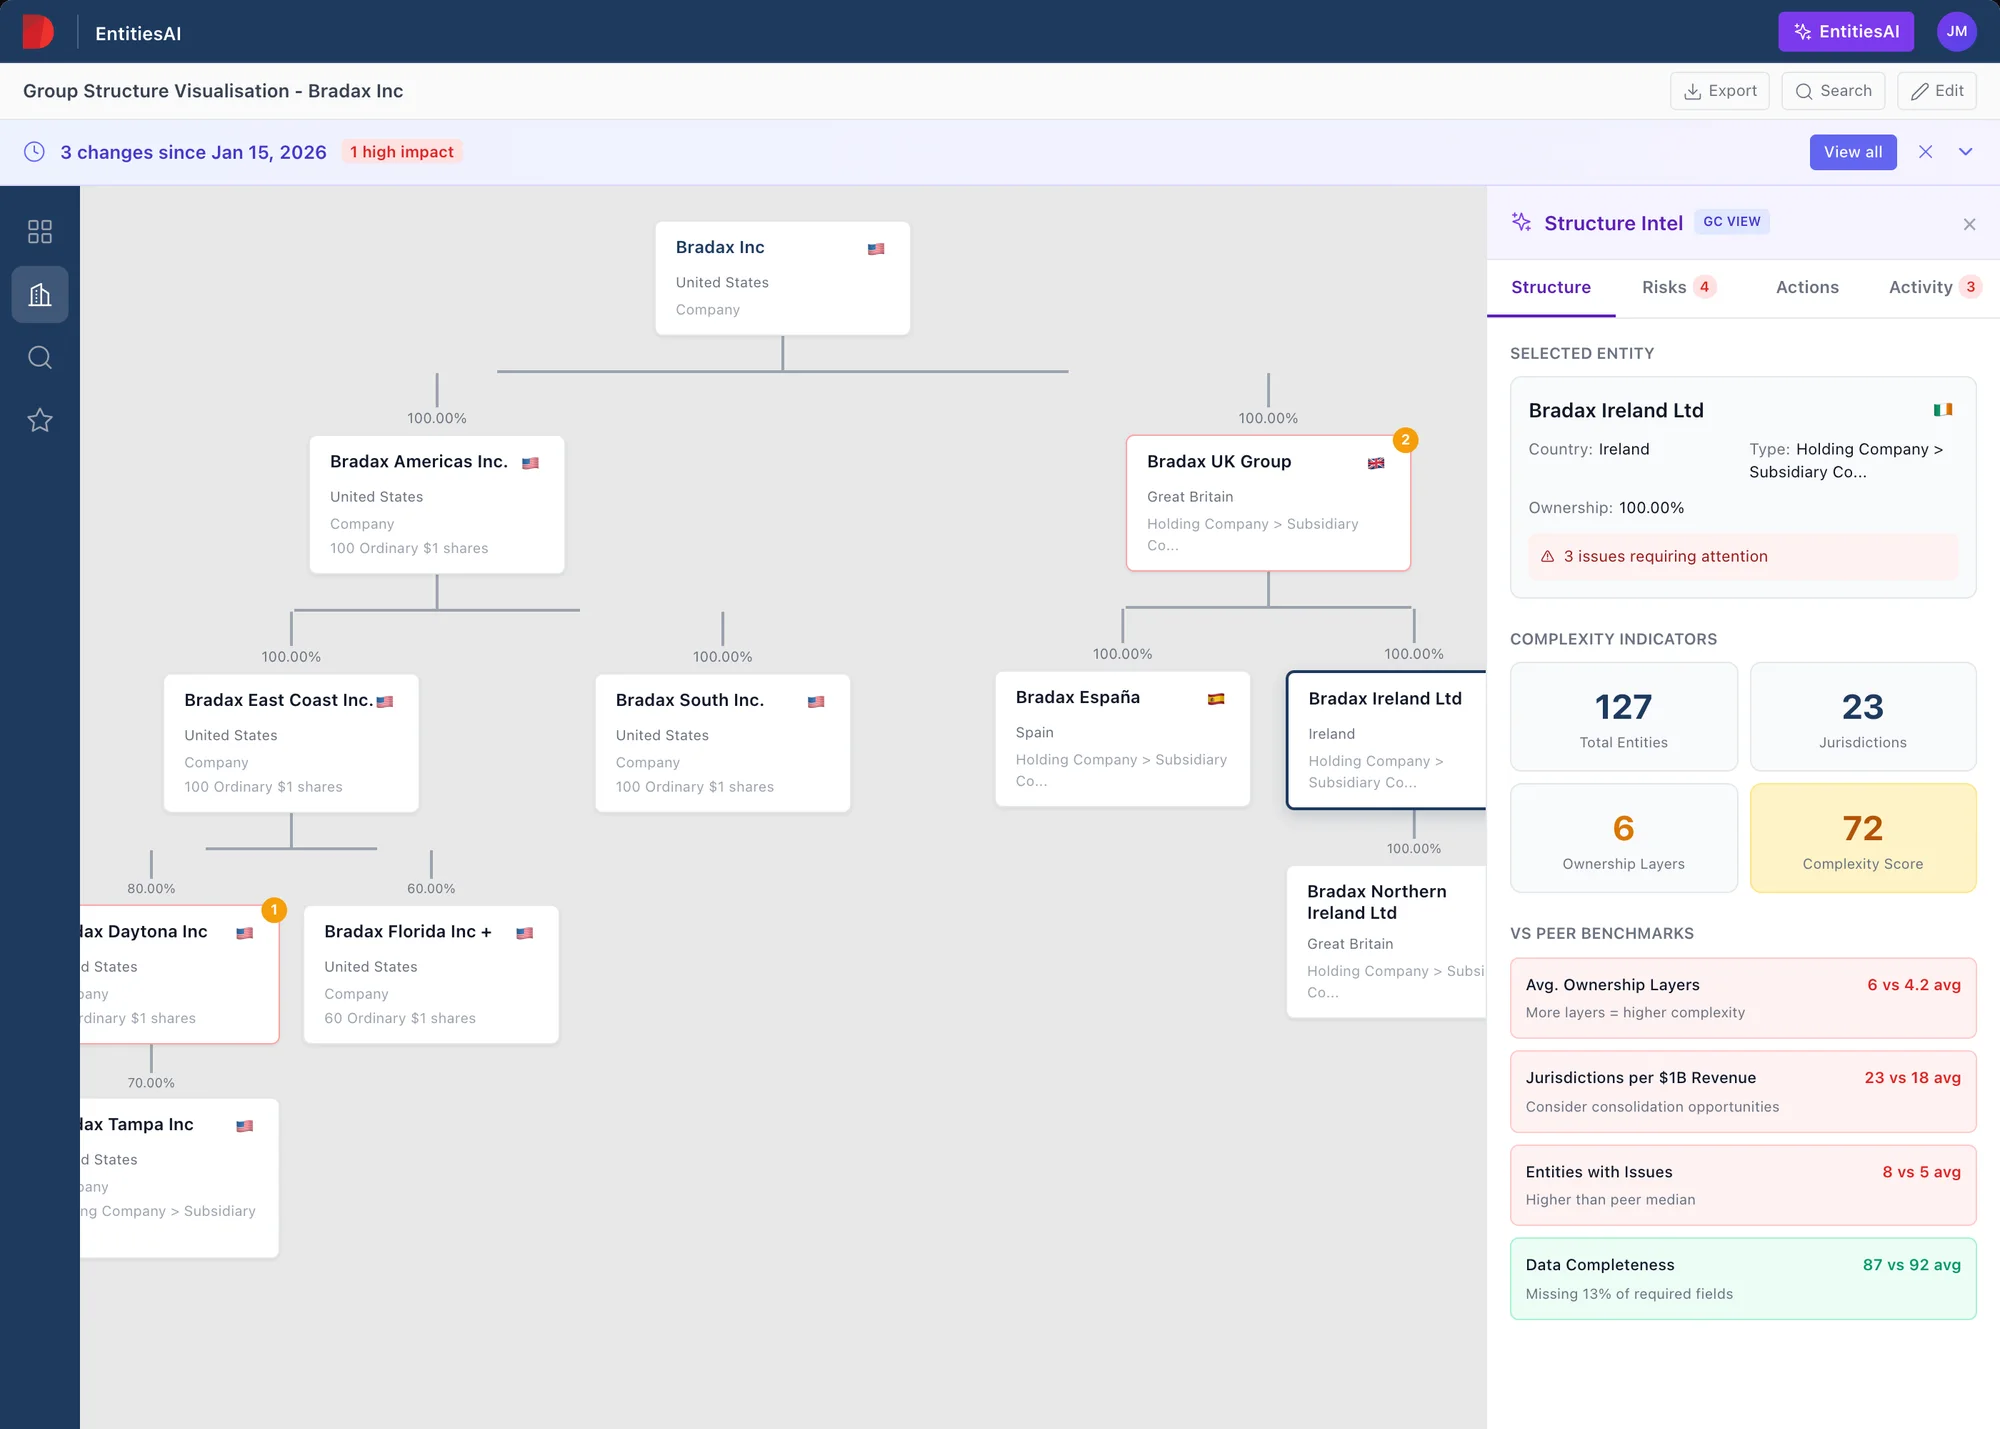
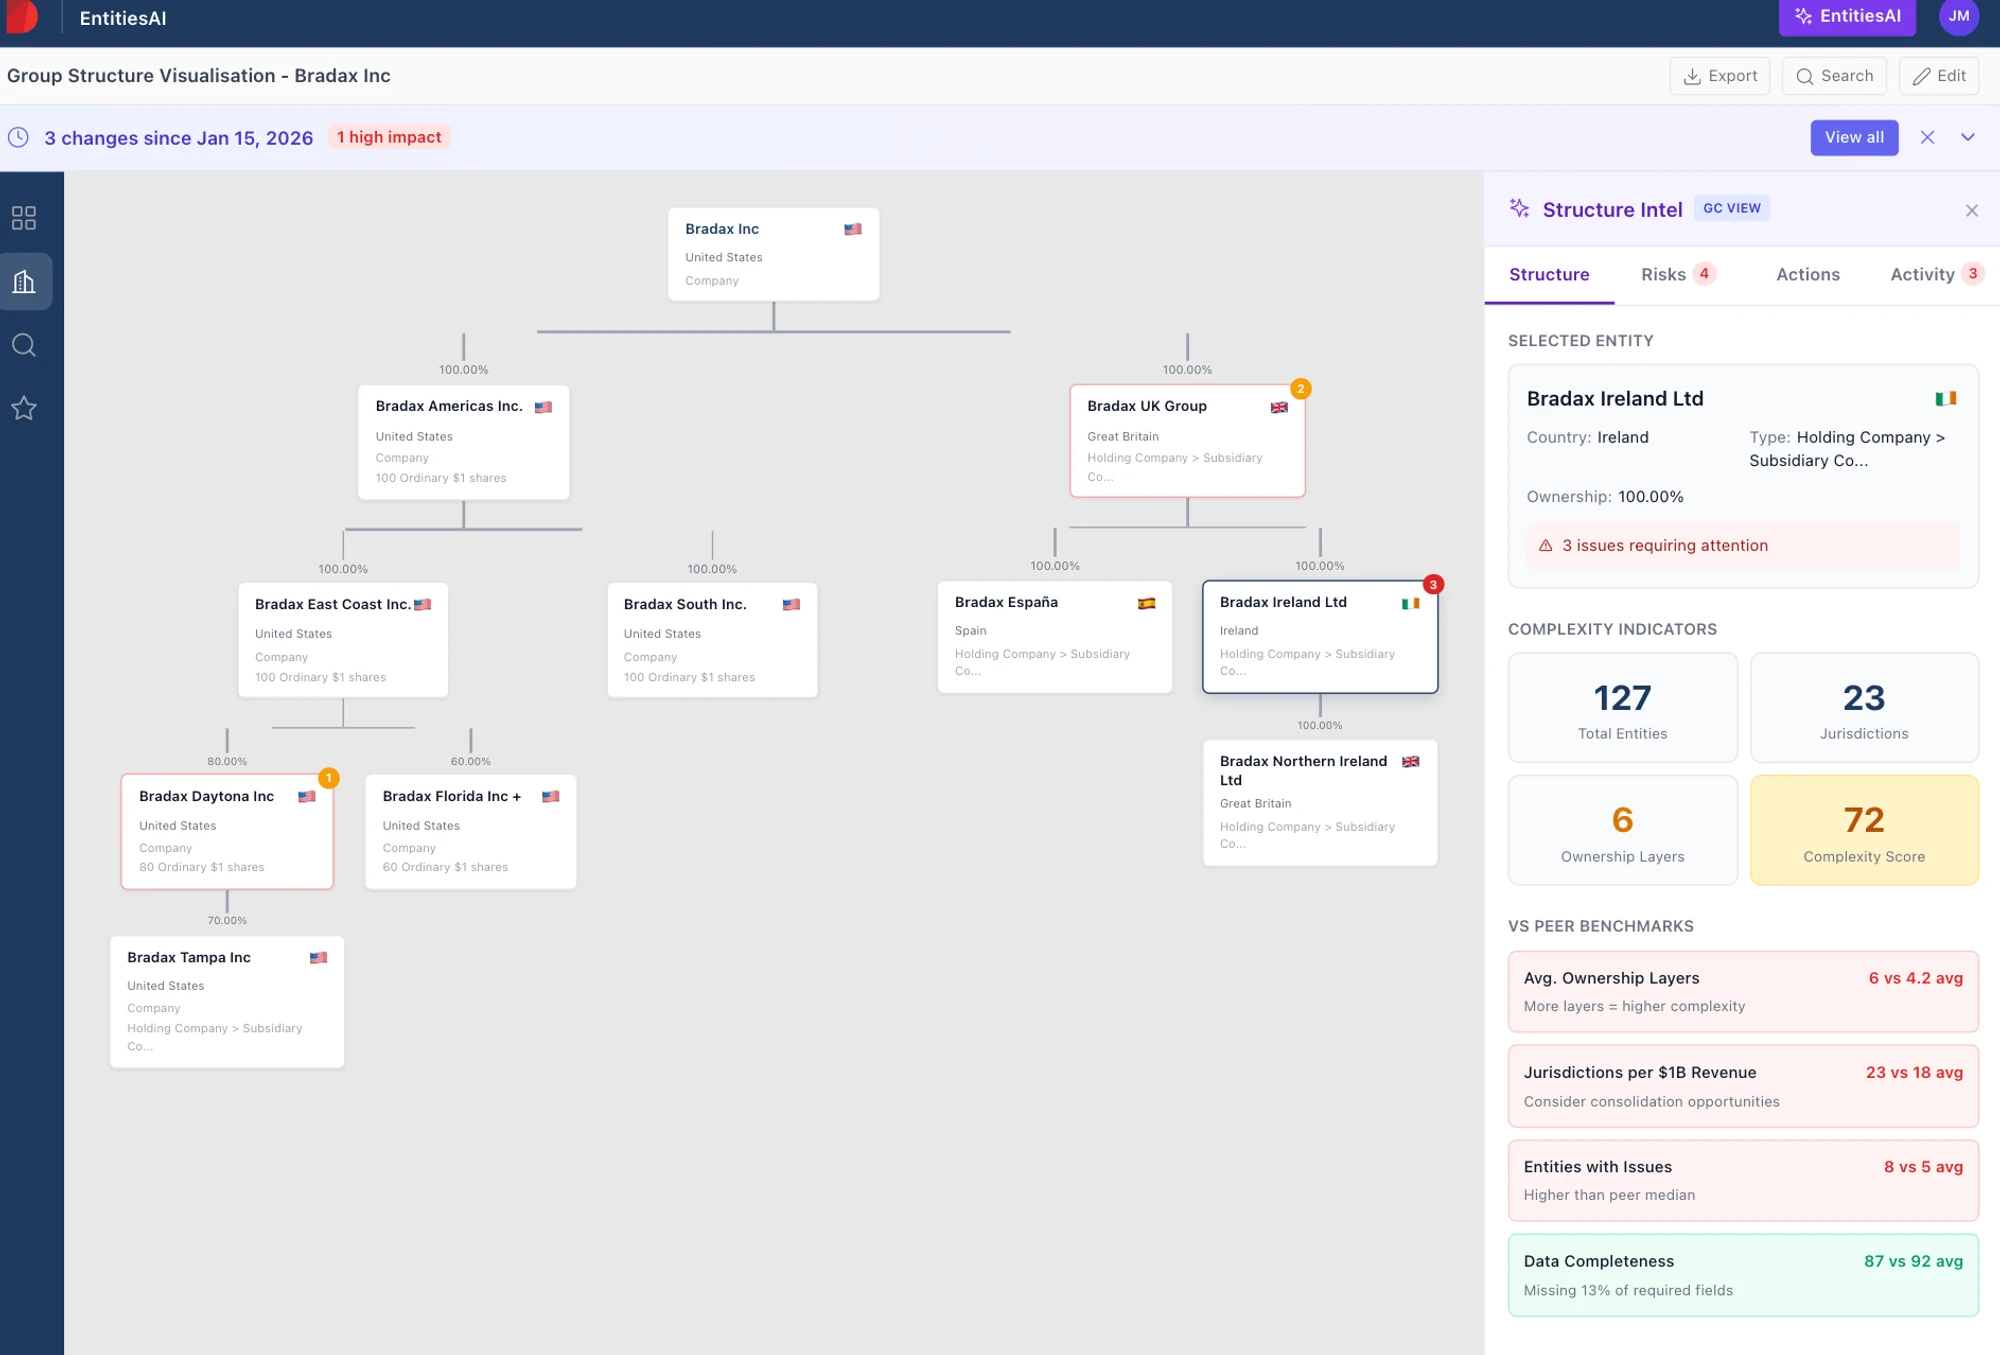
Agentic pills: recapture Entities with the whole tree visible, tidy Headless UI layout; fix entity chart clipping in the prototype

diff --git a/app/(site)/now/entities-intelligence/page.tsx b/app/(site)/now/entities-intelligence/page.tsx
@@ -1187,7 +1187,7 @@ export default function EntitiesIntelligencePage() {
               overflowY: "auto",
             }}>
               {/* Root Entity */}
-              <div style={{ display: "flex", flexDirection: "column", alignItems: "center" }}>
+              <div style={{ display: "flex", flexDirection: "column", alignItems: "center", width: "max-content", minWidth: "100%" }}>
                 <EntityCard 
                   entity={ENTITIES[0]} 
                   isSelected={selectedEntity === ENTITIES[0].id}

diff --git a/app/(portfolio)/page.tsx b/app/(portfolio)/page.tsx
@@ -145,7 +145,7 @@ function Showcase({ c, mcp, atlas, gate }: { c: Case; mcp: McpData; atlas: Atlas
     content: t.views ? (
       <ViewSwitch label={t.label} views={t.views} />
     ) : t.layers ? (
-      <div className="stage stage-layers">
+      <div className="stage stage-layers" style={t.ratio ? { aspectRatio: t.ratio } : undefined}>
         {t.layers.map((l, i) =>
           i === 0 ? (
             <div

diff --git a/lib/portfolio.ts b/lib/portfolio.ts
@@ -38,6 +38,8 @@ export type ShowcaseTab = {
   panels?: StageImage[];
   views?: (StageImage & { label: string })[];
   layers?: StageImage[];
+  /** `layers` only: the stage's aspect ratio, when the layers extend below the first. */
+  ratio?: string;
   view?: string;
 };
 /**

diff --git a/content/cases/agentic-vision.md b/content/cases/agentic-vision.md
@@ -54,46 +54,47 @@ showcase:
       layers:
         - src: /protected/work/agentic/s-entities.webp
           width: 2000
-          height: 1429
+          height: 1355
           alt: "An entity structure explorer for a fictional company. An org chart sits beside an AI insights panel with complexity indicators and benchmarks against peer organizations."
         - src: /protected/work/agentic/s-cross-sell.webp
           width: 2000
           height: 1077
-          x: 40
-          y: 0.74
-          w: 58
+          x: 22
+          y: 0.64
+          w: 52
           speed: 110
           alt: "A board book open with the GovernAI panel. A slide lists six entities as plain text, and the panel suggests that Diligent Entities could show them as an org chart. The slide shows a preview of that chart, built from public information."
     - id: headless
       label: Headless UI
+      ratio: "1 / 0.84"
       layers:
         - src: /protected/work/agentic/s-teams.webp
           width: 2000
           height: 1309
-          w: 78
+          w: 58
           alt: "A Diligent Risk Agent inside Microsoft Teams. It reports three emerging risks with severity, recommends an owner for each, and offers buttons to assign the recommended owners or choose different ones."
         - src: /protected/work/agentic/s-slack.webp
           width: 2000
           height: 1247
-          x: 2
-          y: 0.6
-          w: 46
+          x: 0
+          y: 0.5
+          w: 58
           speed: 70
           alt: "The same agent in Slack."
         - src: /protected/work/agentic/s-phone-questions.webp
           width: 698
           height: 1482
-          x: 62
+          x: 60
           y: 0
-          w: 20
+          w: 21
           speed: 120
           alt: "An iPhone text thread. Cowork, the AI assistant, asks the general counsel two questions with tap-to-choose answers: whether to set up and assign two to-dos to an associate, and whether the updated plan should go to the Audit Committee."
         - src: /protected/work/agentic/s-phone-nudge.webp
           width: 698
           height: 1482
-          x: 80
-          y: 0.17
-          w: 20
+          x: 79
+          y: 0.43
+          w: 21
           speed: 90
           alt: "Later in the same iPhone thread, Cowork reports that the associate missed an 8-K sign-off deadline and asks how to follow up, offering to nudge them, give more time, or leave it to the general counsel."
 ---
